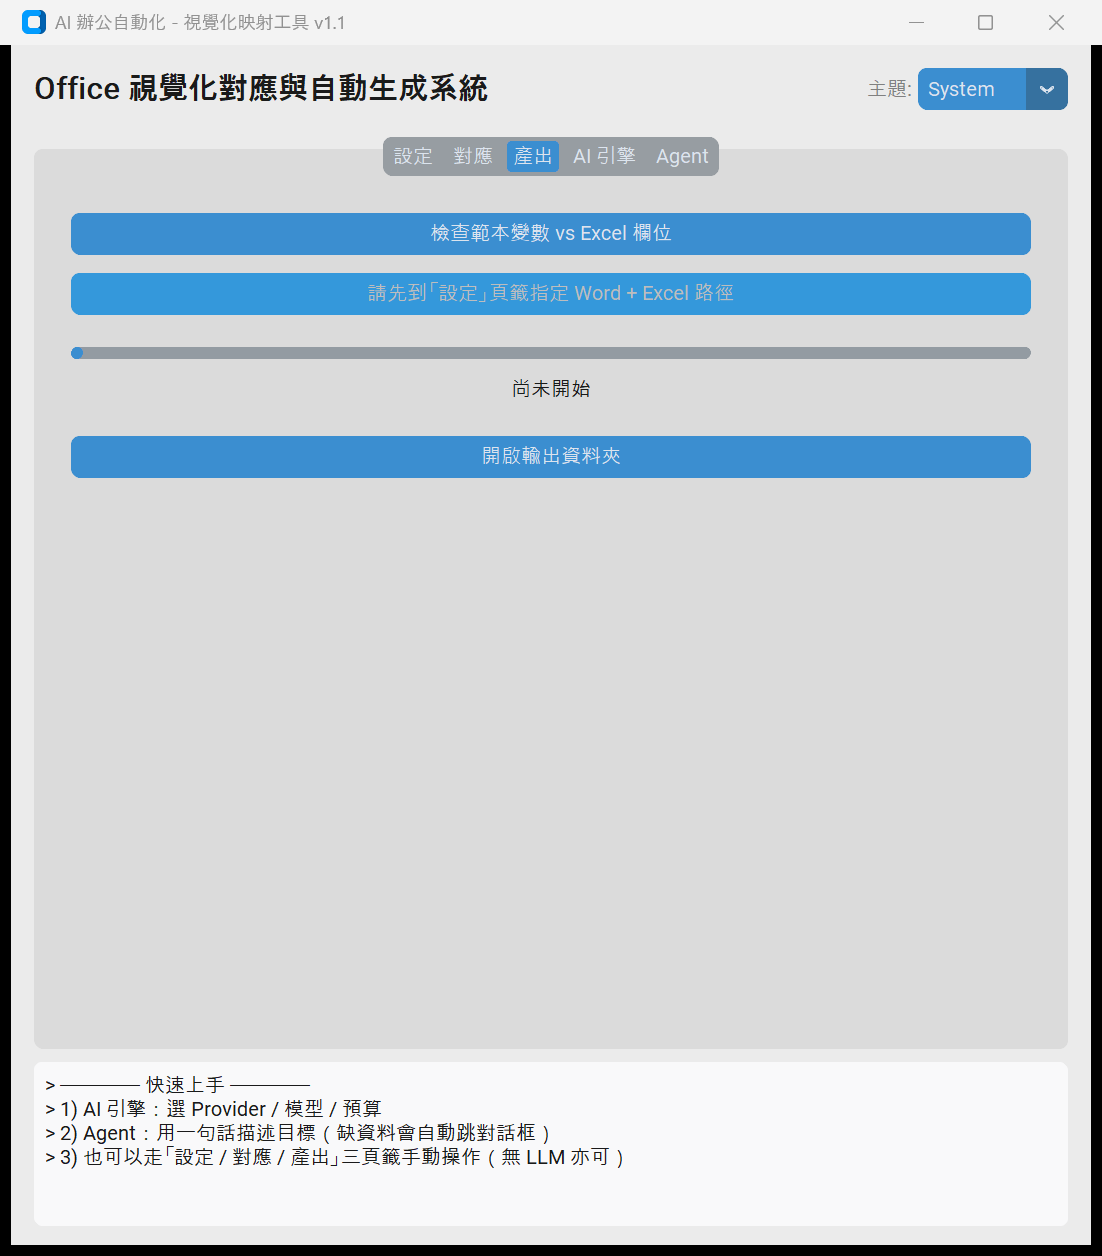
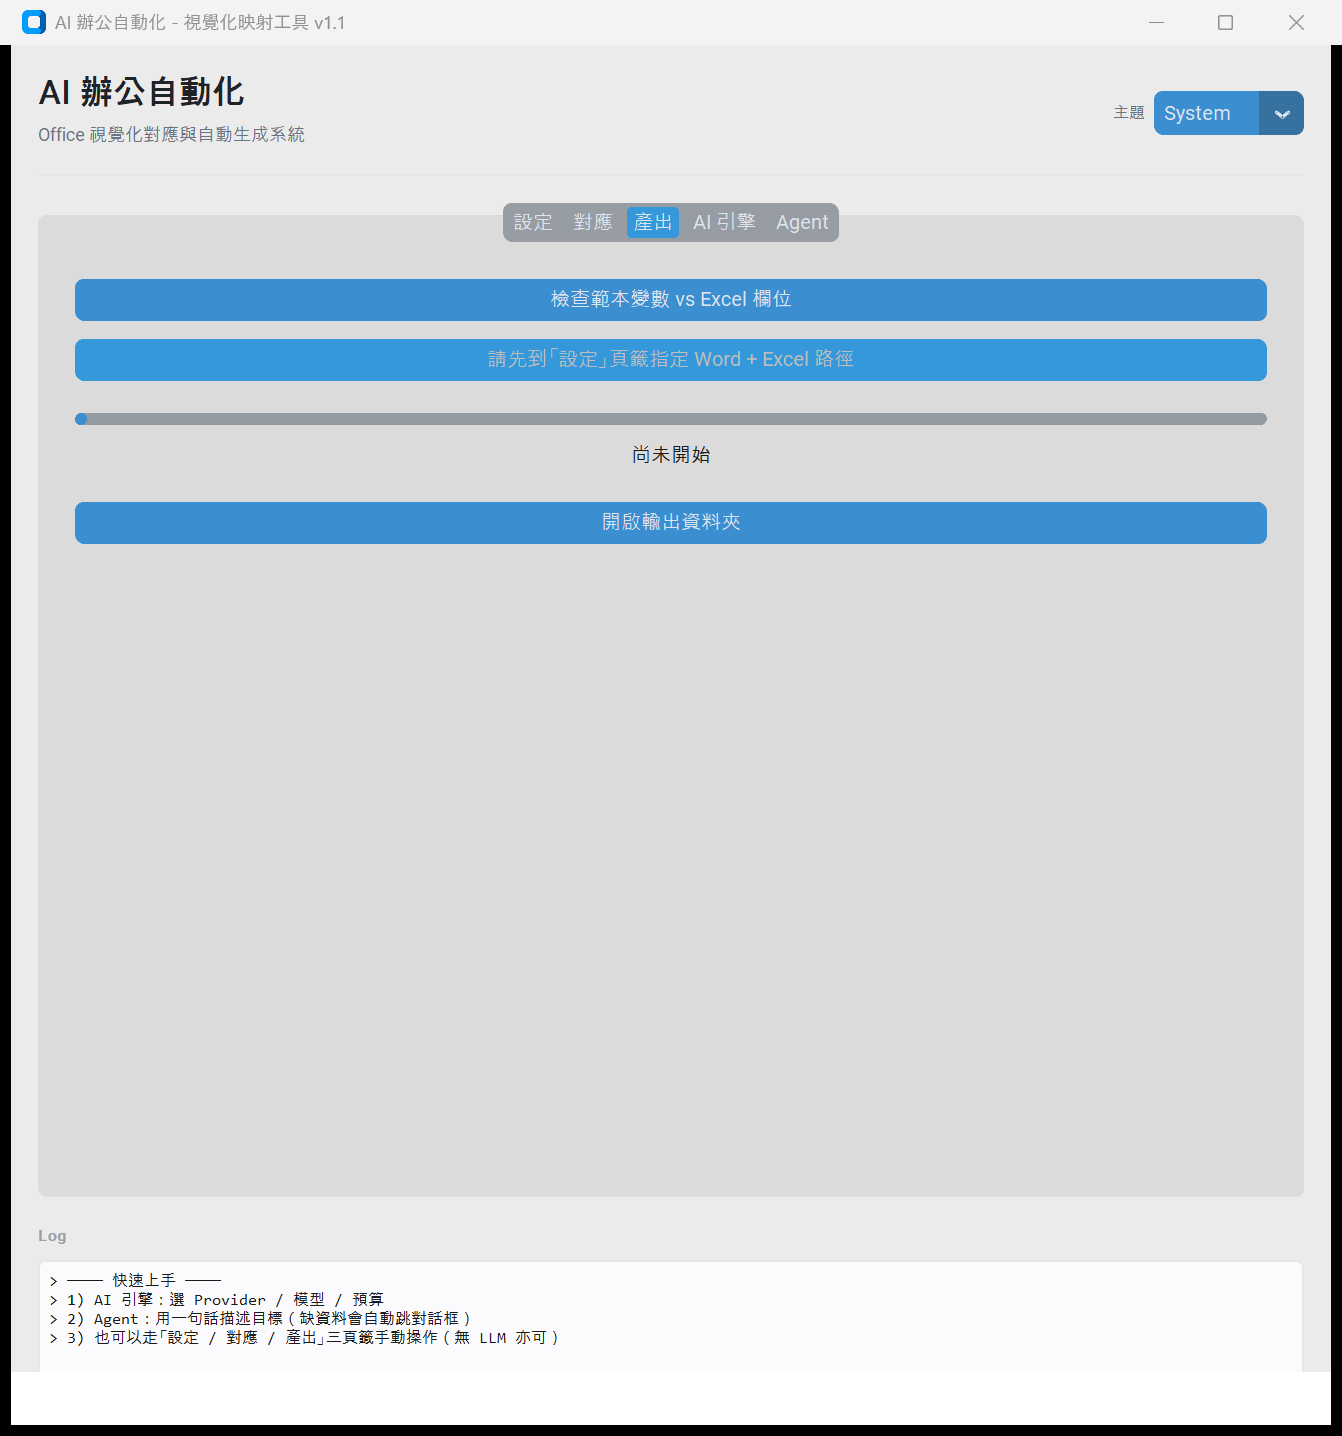
docs: refresh screenshots for UI v2 + add welcome card view
新增 06_agent_welcome.png 展示 Agent 待命狀態(welcome card + prompt chips)。
其餘 5 張同步 v2(訊息泡泡 / status pill / markdown + 表格渲染 / 大標 + 副標)。

diff --git a/index.html b/index.html
@@ -97,8 +97,8 @@
 </head>
 <body>
   <header>
-    <h1>AI 辦公自動化 — 視覺化映射工具 v1.1</h1>
-    <p>5 個分頁的 GUI 截圖 (Python 3.13 / customtkinter / Gemma-4-31B)</p>
+    <h1>AI 辦公自動化 — 視覺化映射工具 <span style="color:var(--accent)">v2</span></h1>
+    <p>5 個分頁的 GUI 截圖 · UI/UX 重做 · 助理對話支援 markdown 與表格渲染</p>
   </header>
 
   <main>
@@ -141,10 +141,19 @@
     <figure>
       <figcaption>
         <span class="tag">05</span>
-        <h2>Agent</h2>
-        <span class="desc">自然語言對話框 · 中止 / 匯出對話 / 新對話 · Ctrl+Enter 送出</span>
+        <h2>Agent · 對話流</h2>
+        <span class="desc">訊息泡泡 + 角色 badge + 時間戳 · 工具呼叫緊湊樣式 · 助理回覆走 markdown 渲染含真表格</span>
       </figcaption>
-      <img src="img/05_agent.png" alt="Agent 分頁">
+      <img src="img/05_agent.png" alt="Agent 對話流(含 markdown 表格)">
+    </figure>
+
+    <figure>
+      <figcaption>
+        <span class="tag">06</span>
+        <h2>Agent · 待命狀態</h2>
+        <span class="desc">welcome card + 範例 prompt chips(點擊填入)· 狀態 pill(● 待命)</span>
+      </figcaption>
+      <img src="img/06_agent_welcome.png" alt="Agent 待命狀態(welcome card)">
     </figure>
   </main>
 
